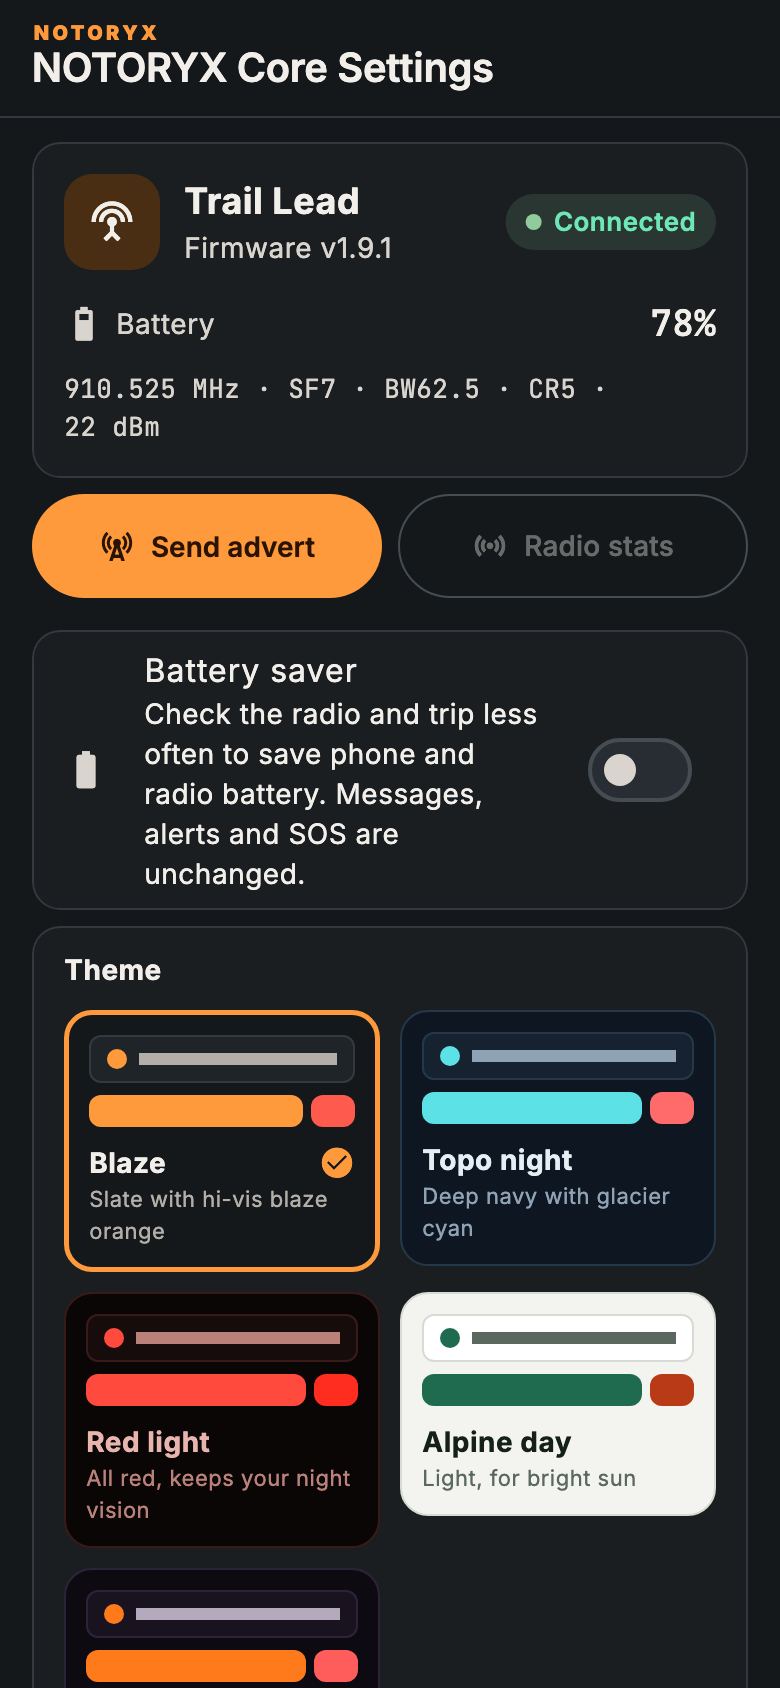
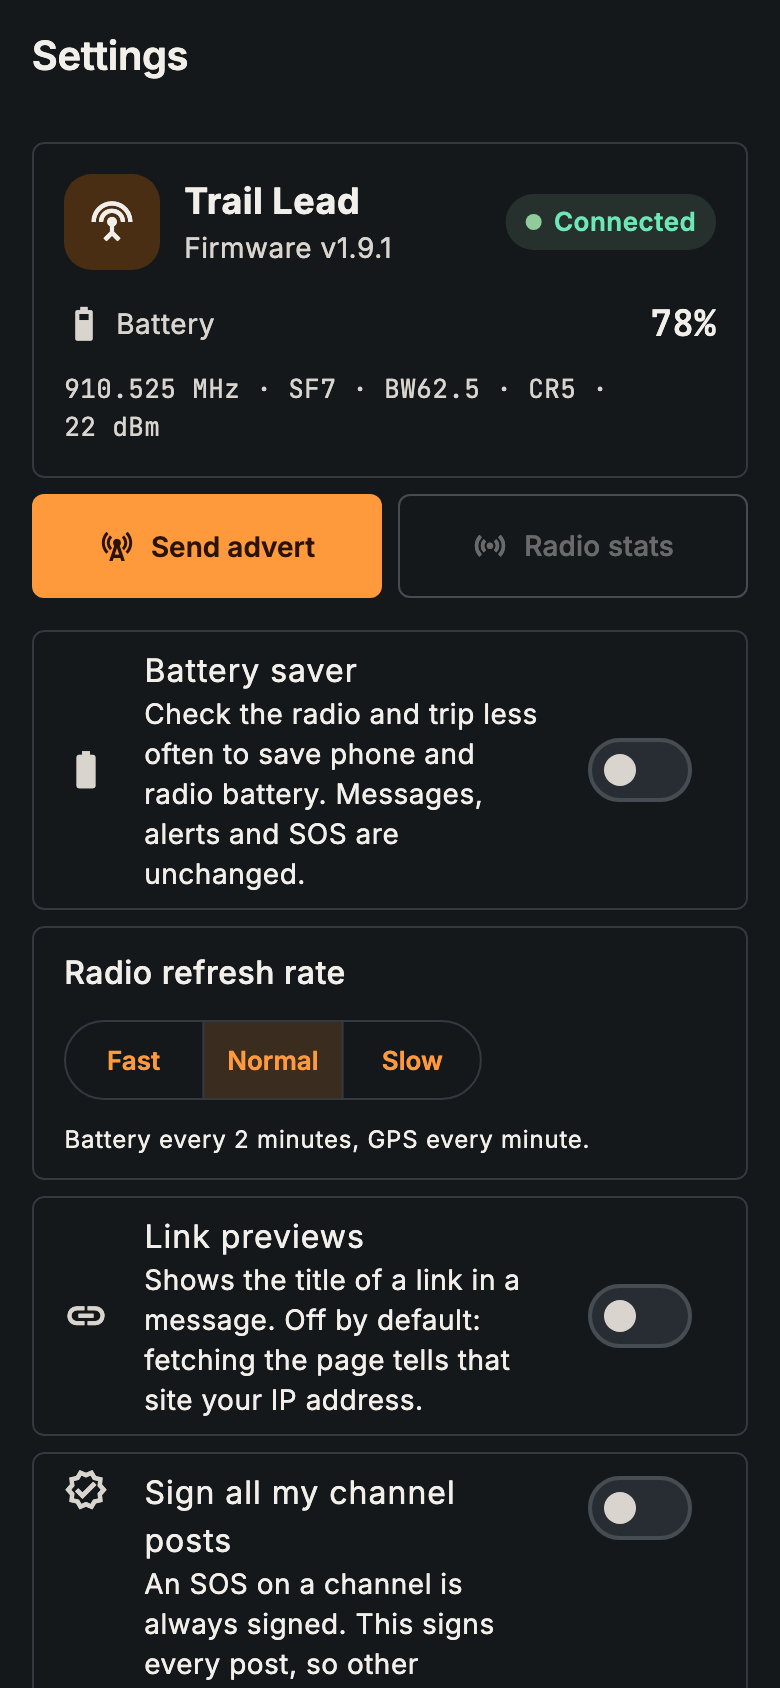
README: Frosted ember screenshots and features through rc.19

diff --git a/README.md b/README.md
@@ -9,23 +9,24 @@
 This repository hosts NOTORYX Core builds for Android and Mac. Get the latest from **[Releases](../../releases)**.
 
 <p align="center">
-  <img src="images/home.png" width="190" alt="Field Console home screen with check-in and SOS">
-  <img src="images/nodes.png" width="190" alt="Nodes: repeaters, chat nodes, rooms and sensors with hop counts">
-  <img src="images/channel_chat.png" width="190" alt="A channel conversation">
-  <img src="images/path_graph.png" width="190" alt="Path graph showing how messages reach you">
+  <img src="images/home.png" width="190" alt="Home: radio readouts, check-in, SOS and field tools on frosted glass">
+  <img src="images/chats.png" width="190" alt="Chats: channels and direct conversations">
+  <img src="images/nodes.png" width="190" alt="Nodes: repeaters, people, rooms and sensors with hop counts">
+  <img src="images/more.png" width="190" alt="More: every tool and setting, searchable">
 </p>
 
 ## Why NOTORYX Core?
 
 NOTORYX Core turns your phone or Mac and a [MeshCore](https://meshcore.io/) radio into a field communicator that works with no cell service, no Wi-Fi and no internet. Here's why it's worth carrying:
 
-- **SOS that keeps trying.** Hold the button for 2 seconds and your radio's position goes to your trip contacts. It repeats every 5 minutes until someone answers or you stop it, and **I'm safe** sends the all-clear.
+- **SOS that keeps trying, and can be trusted.** Hold the button for 2 seconds and your radio's position goes to your trip contacts. It repeats every 5 minutes until someone answers or you stop it, and **I'm safe** sends the all-clear. A channel SOS is signed with your radio's own key, so other NOTORYX users know it's really you.
 - **Check-ins that tell you who got them.** I'm OK, At camp, Delayed and Heading back show exactly who each one reached, and you can resend to anyone it missed. Overdue alerts warn you when a trip contact goes quiet.
 - **You can actually see the mesh.** The path graph draws every route your messages take, ranks the busiest repeaters and even figures out which repeater a short 1-byte hop really was. Antenna coverage shows where an antenna at a chosen height could reach over real terrain.
-- **It tells you when your radio's on the wrong settings.** NOTORYX Core knows the settings local meshes have agreed on, warns you when your radio doesn't match and switches it after you confirm.
+- **It gets your radio on the right settings.** MeshCore's community presets (USA, Canada, EU/UK, Australia and more) are built in, with the one for your country suggested first. It also knows settings local meshes have agreed on, and warns you when your radio doesn't match.
+- **It helps you find people.** A directory of public channels, channels heard on air that you haven't joined, and the #channels active online right now, each one tap to join.
 - **It reaches past the horizon.** The optional MQTT bridge shows MeshCore traffic from beyond radio range, clearly labeled **via MQTT** so it never pretends to be a radio repeat.
-- **It's made for the dark, the sun and everything in between.** Four themes, including Red light to keep your night vision and Alpine day for bright snow, all checked for readable contrast.
-- **It speaks your language.** 17 languages.
+- **It looks the part.** The Frosted ember look puts see-through glass over a warm glow. Four themes, including Red light to keep your night vision and Alpine day for bright snow, all checked for readable contrast.
+- **It speaks your language.** 18 languages.
 - **It runs your whole kit.** Repeaters, room servers, sensors, access control, a command line and Wi-Fi setup are all in one app.
 - **It's free and open source** (MIT), and built on the community [MeshCore Open](https://github.com/zjs81/meshcore-open) project.
 
@@ -36,56 +37,65 @@ NOTORYX Core turns your phone or Mac and a [MeshCore](https://meshcore.io/) radi
 - **Check-ins:** I'm OK, At camp, Delayed and Heading back. See who each one reached and resend to anyone it missed.
 - **Check-in reminders:** a phone notification when you're due to check in, even when the app is closed.
 - **Overdue alerts:** a warning when a trip contact goes quiet for longer than you set.
+- **Signed SOS:** a channel SOS carries a signature from your radio's key. You can sign every channel post too; a post whose signature doesn't check out shows as unverified, and other apps just see the normal message.
 - **Plan your trip:** choose up to six contacts. Trip briefs, a **Field Log** of everything sent and received, readiness checks and optional automations.
-- **Field Console** home screen: radio status, signal and battery at a glance, plus live diagnostics.
+- **Home:** radio battery, signal and node count at a glance, your radio's own **sensors** (voltage, temperatures, GPS, light), check-in, SOS and field tools.
+- **Android home-screen widget:** radio status, battery and unread count, with one-tap Check in and SOS.
 
 ### Messaging
-- Direct and channel messages with delivery status, reactions, GIFs and image messages.
+- Direct and channel messages with delivery status, reactions, GIFs and image messages. Tapping a notification opens that chat.
+- **Find channels:** a directory of public hashtag channels (local ones first), channels heard on air that you haven't joined, and **Active online** from an online analyzer, each with one-tap Join.
+- **Link previews** (off by default).
 - **Message search** across everything saved on the device.
 - **Drafts** kept for each chat.
 - **Share your position or a contact** from the message box. Received contacts can be added in one tap.
 - **Read messages aloud** (optional) and on-device translation.
 - **Area-limited channel messages** that stay within a radius of you (needs radios running flood-corridor firmware).
 - Optional auto-delete of old channel messages.
-- **Bot Mode** auto-replies.
+- **Bot Mode:** auto-replies, keyword rules and commands like `!ping`, `!sun`, `!moon`, `!weather`, `!dice` and `!trace`, in direct messages and in the channels you choose, plus weather alerts posted to a channel.
 
 ### Maps, paths and coverage
 - Live mesh map with **offline map packs**.
 - **Path graph:** every path you've heard, drawn as flows from far repeaters to you, with the busiest repeaters ranked. Short 1-byte hops are matched to a specific repeater using longer paths.
-- **Route intelligence** that handles 1-, 2- and 3-byte hop IDs, plus path discovery and traces.
+- **Route intelligence** that handles 1-, 2- and 3-byte hop IDs, ranks the best repeaters you hear directly, plus path discovery and traces.
+- **Observer reach:** see which online observers heard your message, how many hops it took and the best signal. Unknown repeaters can be named online. Both use a CoreScope analyzer you choose.
+- **Coverage hexagons:** record where your radio got through and upload to your own endpoints, with a privacy delay. **Track log** with GPX export.
 - **Antenna coverage:** see where an antenna at a chosen height could reach over the terrain.
 - **Line-of-sight checks** between two points.
 - **Coverage capture sessions** you can record, review and export.
 - **Field stats:** live mesh counts and contact activity.
 
 ### MQTT bridge (optional)
-- Connect to an MQTT broker over TLS or secure WebSocket to see MeshCore traffic from beyond radio range. Broker passwords are kept in the system keychain, never in plain settings.
+- Connect to **several MQTT brokers at once** over TLS or secure WebSocket to see MeshCore traffic from beyond radio range, with a Wi-Fi-only option and an offline queue. Broker passwords are kept in the system keychain, never in plain settings.
 - **Live packet feed** of what arrives over MQTT. Channel messages that reached you only over the internet are marked **via MQTT** and never count as radio repeats.
 - **Observer sharing** sends what your radio hears to the broker in the community `meshcoretomqtt` format. It's off until you turn it on, and direct messages and your own traffic each need a separate opt-in.
-- **LetsMesh-style brokers:** sign in with a token signed by your radio, so its private key never leaves it. US and EU LetsMesh presets are included (community services, not part of NOTORYX).
+- **LetsMesh-style brokers:** sign in with a token signed by your radio, so its private key never leaves it. US and EU LetsMesh and MeshRank presets are included (community services, not part of NOTORYX).
 - Reconnects on its own when your network comes back.
 
 ### Your radios
 - Connect over **Bluetooth, USB or TCP/IP**, and reconnect to your last radio automatically.
 - **Connections dashboard:** radio and MQTT status side by side, device and firmware details, and a clear prompt when Bluetooth is off.
 - Radio overview with battery, firmware and LoRa settings, live radio stats and a noise-floor chart.
+- **Radio presets:** MeshCore's community catalogue with search and a suggestion for your country. Choosing one keeps your transmit power.
 - **Local mesh settings:** knows the settings local meshes have agreed on (for example Philadelphia's 919.500 MHz preset), tells you when your radio doesn't match, and switches it after you confirm.
+- **Send your advert** zero-hop (only radios that hear you directly) or flooded across the mesh.
 - **Repeater and room-server tools:** login, status, neighbors, telemetry, settings, command line and **access control** (who can log in as admin, read & write, or read only).
 - **Live sensor updates:** sensors push readings when they change.
 - **Command line and Wi-Fi setup** for your own radio. With permission, you can also use a trusted contact's command line.
+- **Field tools:** repeater ping (signal both ways), antenna hunt (clicks faster as a repeater gets louder), Repeater IDs, Region setup (US and Canada region trees) and a field guide.
 - Join a community by scanning its QR code.
 
 ### Backups and everyday comfort
 - **Encrypted backup** of settings, contacts and keys, with optional chat history.
-- **Battery saver** and app-icon shortcuts.
+- **Battery saver**, adjustable refresh rate and app-icon shortcuts.
 - **Four themes:** Blaze (default), Topo night, Red light (keeps your night vision) and Alpine day (for bright sun), all checked for readable contrast.
-- Available in **17 languages**. A few screens (bot settings and the local mesh settings banner) are still in English only.
+- Available in **18 languages**. A few screens (parts of bot settings and the local mesh settings banner) are still in English only.
 
 <p align="center">
-  <img src="images/tools.png" width="190" alt="Field tools: backup, trip operations, map, paths, repeaters, stats and coverage">
+  <img src="images/routes.png" width="190" alt="Route Intelligence with the best repeaters near you">
+  <img src="images/path_graph.png" width="190" alt="Path graph showing how messages reach you">
   <img src="images/access_control.png" width="190" alt="Repeater access control with admin, read & write and read-only roles">
-  <img src="images/dm_chat.png" width="190" alt="A direct message conversation with delivery ticks">
-  <img src="images/settings.png" width="190" alt="Settings with the theme picker">
+  <img src="images/settings.png" width="190" alt="Settings">
 </p>
 
 <p align="center">
@@ -113,7 +123,7 @@ Each release also has `SHA256SUMS-Android.txt` and `SHA256SUMS-macOS.txt`. To ch
 2. Open the file. If Android asks, allow installs from your browser or file manager.
 3. Open NOTORYX Core and allow **Bluetooth**, **location** and **notifications** when asked.
 
-Newer versions install over older ones and keep your data. (Test builds before 10.0.0-rc.10 used a different key: make an encrypted backup in **Tools → Encrypted backup**, uninstall, install the new version and restore.)
+Newer versions install over older ones and keep your data. (Test builds before 10.0.0-rc.10 used a different key: make an encrypted backup in **More → Encrypted backup**, uninstall, install the new version and restore.)
 
 ## Install on a Mac
 
